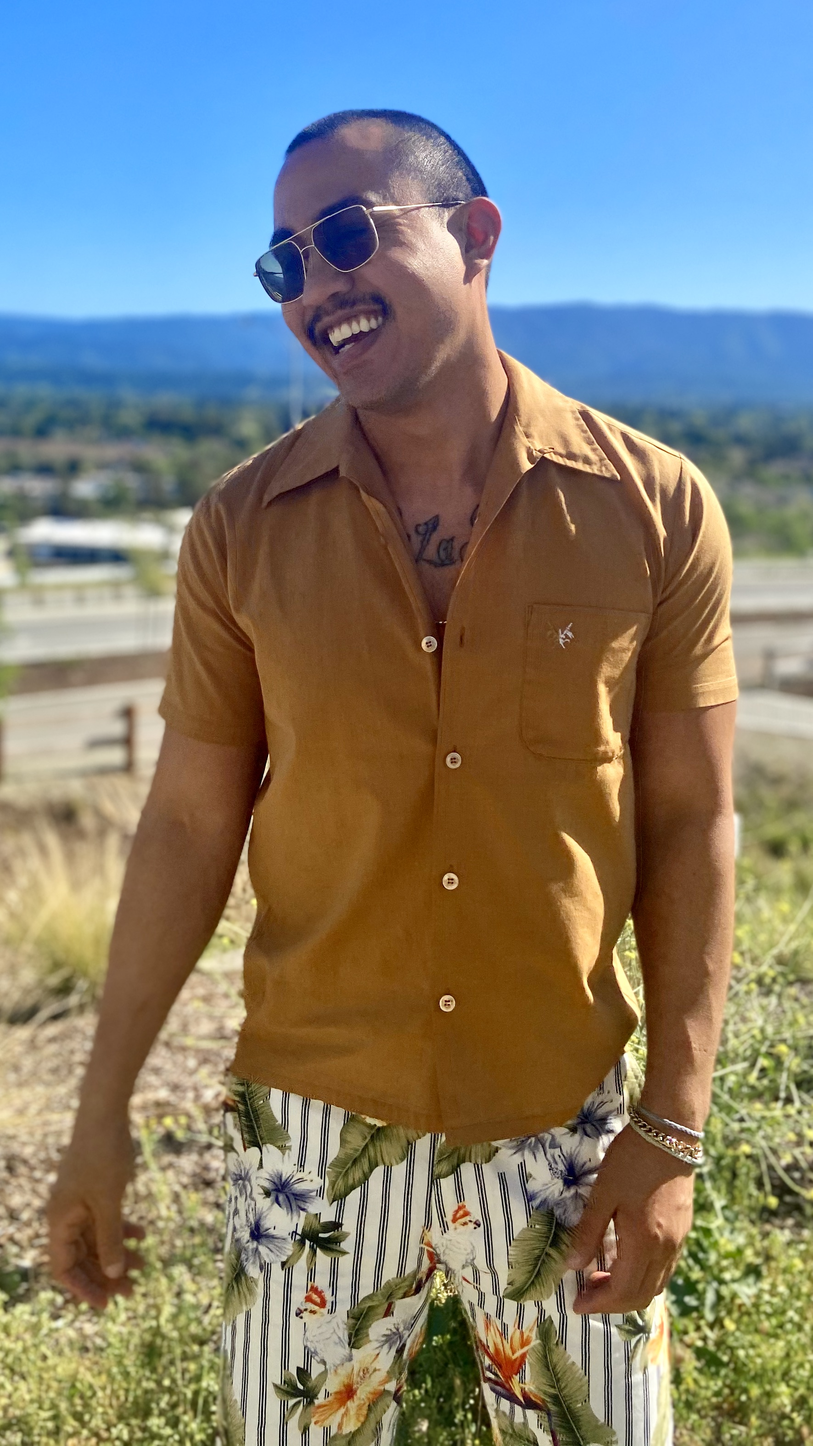
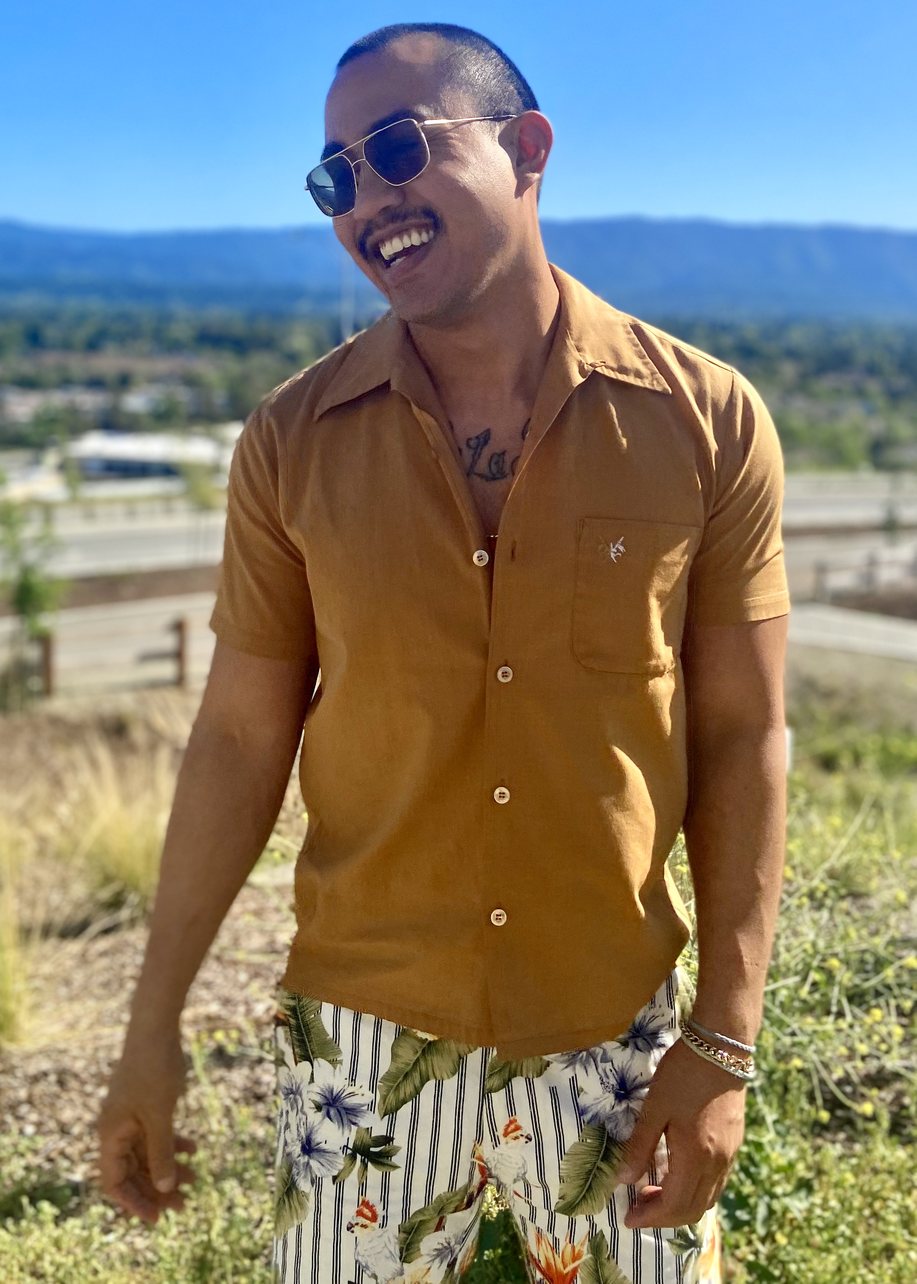
updated icture size

diff --git a/style.css b/style.css
@@ -85,7 +85,6 @@ main ol li{
 }
 .languages{
     display: flex;
-    flex-direction: row;
     justify-content: space-evenly;
 } 
    
@@ -93,12 +92,9 @@ main ol li{
     max-height: 100px; 
 }
 
-.intro{
-    padding: 0 5%;
-}
 
 .about{
-    padding: 5%;
+    margin: 5%;
 }
 
 .contact{
@@ -141,45 +137,32 @@ main ol li{
     
     .item1{
         flex: 1;
-        max-height: 400px;
+        
         
     }
 
     .item2 {
         flex: 2;
         margin-left: 5%;  
-        padding: 15px;
         width: 100%;
-
         min-width: 200px;
         max-height: 400px;
         overflow: scroll;
         
     }
  
-    .languages{
-        justify-content: flex-end;
-        display: flex;
-        margin-top: 50px;
-        width: 80%;
-        
-        
-    } 
 
-    .languages img{
-        max-height: 150px; 
-    }
+
 
 
     .about{
         display: flex;
-        flex-direction: row;
         align-items:center ;
         
     } 
 
     .intro{
-        padding: 2% 30% 2% 30%;
+        margin: 2% 30% 2% 30%;
     }
 
     .contact{
